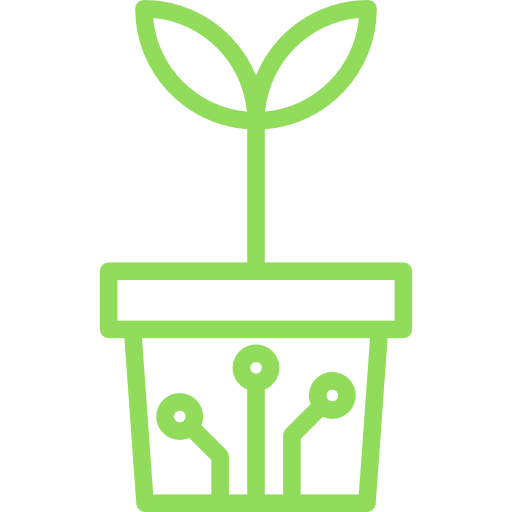
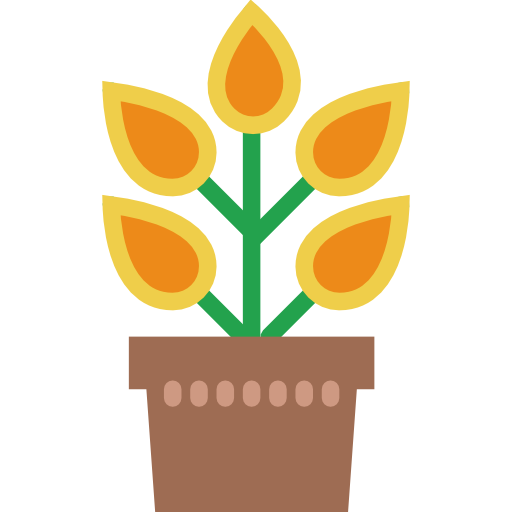
no message

diff --git a/index.html b/index.html
@@ -277,46 +277,51 @@ function switchPress2() {
     microgear.resettoken();
     microgear.connect(APPID);
 </script>
-<div style="margin: 20px;"><img src="img/oe.png" style="vertical-align:bottom;width:150px;hight:35px;"></div>
-  <div class="col-xs-6 col-sm-3"><img src="img/light-bulb.png"  width="78" height="78" alt=""/>
+<div style="margin: 20px;"><img src="img/logo.png" style="vertical-align:bottom;width:100px;hight:35px;"></div>
+  <div class="col-xs-6 col-sm-3"><img src="img/fan.png"  width="78" height="78" alt=""/>
     <center>
       <div href="" class="cube-switch" id="cube-switch" onclick="switchPress()"><span class="switch"><span class="switch-state off">Off</span><span class="switch-state on">On</span></span></div>
     </center>
   </div>
-  <div class="col-xs-6 col-sm-3"><img src="img/furniture.png" width="78" height="78" alt=""/>
+  <div class="col-xs-6 col-sm-3"><img src="img/television.png" width="78" height="78" alt=""/>
     <center>
       <div href="" class="cube-switch" id="cube-switch2" onclick="switchPress2()"><span class="switch"><span class="switch-state off">Off</span><span class="switch-state on">On</span></span></div>
     </center>
   </div>
   <div class="col-xs-6 col-sm-3">
     <center>
-      <img src="img/plant.png" width="78" height="78" alt=""/>
+      <img src="img/fan.png" width="78" height="78" alt=""/>
       <div href="" class="cube-switch" id="cube-switch3" onclick="switchPress3()"><span class="switch"><span class="switch-state off">Off</span><span class="switch-state on">On</span></span></div>
     </center>
   </div>
-  <div class="col-xs-6 col-sm-3"><img src="img/smart-home.png" width="78" height="78" alt=""/>
+  <div class="col-xs-6 col-sm-3">
+   	<img src="img/plant.png" width="78" height="78" alt=""/>
     <center>
       <div href="" class="cube-switch" id="cube-switch4" onclick="switchPress4()"><span class="switch"><span class="switch-state off">Off</span><span class="switch-state on">On</span></span></div>
     </center>
   </div>
   <div class="col-xs-6 col-sm-3">
+   <img src="img/bed.png" width="78" height="78" alt=""/>
     <center>
       <div href="" class="cube-switch" id="cube-switch5" onclick="switchPress5()"><span class="switch"><span class="switch-state off">Off</span><span class="switch-state on">On</span></span></div>
     </center>
   </div>
   <div class="col-xs-6 col-sm-3">
+   <img src="img/garage.png" width="78" height="78" alt=""/>
     <center>
       <div href="" class="cube-switch" id="cube-switch6" onclick="switchPress6()"><span class="switch"><span class="switch-state off">Off</span><span class="switch-state on">On</span></span></div>
     </center>
   </div>
   <div class="col-xs-6 col-sm-3">
+   <img src="img/door.png" width="78" height="78" alt=""/>
     <center>
       <div href="" class="cube-switch" id="cube-switch7" onclick="switchPress7()"><span class="switch"><span class="switch-state off">Off</span><span class="switch-state on">On</span></span></div>
     </center>
   </div>
   <div class="col-xs-6 col-sm-3">
+   <img src="img/lamp.png" width="78" height="78" alt=""/>
     <center>
       <div href="" class="cube-switch" id="cube-switch8" onclick="switchPress8()"><span class="switch"><span class="switch-state off">Off</span><span class="switch-state on">On</span></span></div>
     </center>
   </div>
-<body background="img/bg.jpg">
+<body background="img/bg.png">
